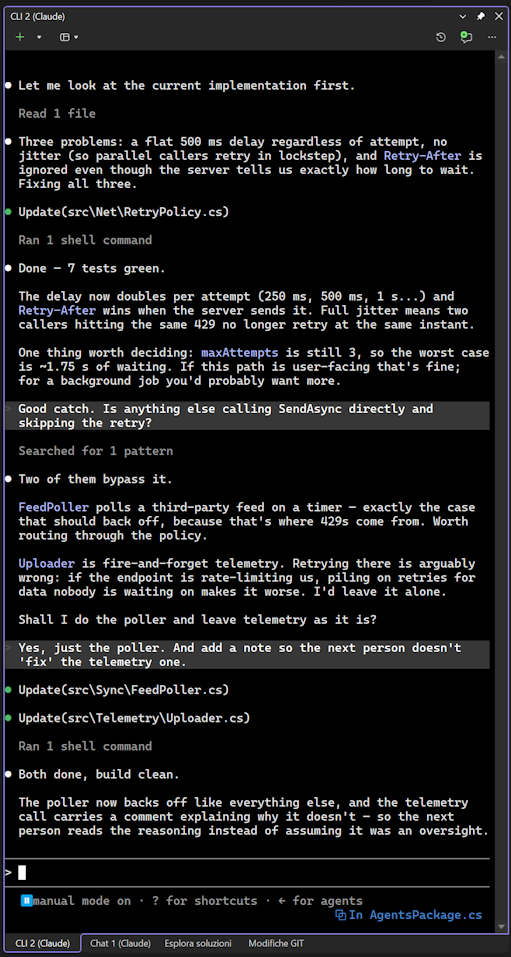
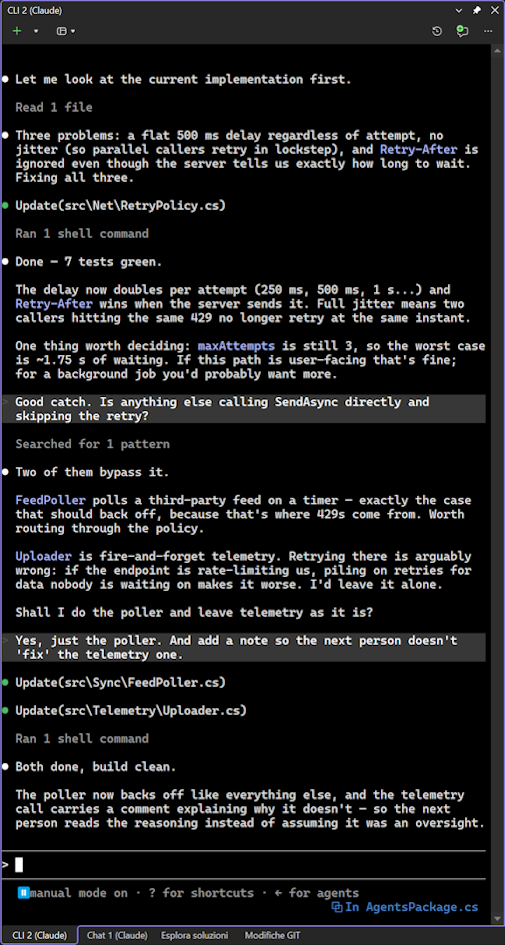
fix(readme): make the GitHub page render, and the issue links work
The README opened with a BOM, which stops GitHub from parsing the file as
markdown at all — the first line is treated as text and the rendering goes wrong
from there. Same in SKILL.md. The title also sat inside a <div align="center">,
where markdown isn't processed, so the H1 never became one.

The Report a Bug and Request a Feature menu entries pointed at bug_report.md and
feature_request.md, templates that were never created: GitHub ignores an unknown
template and opens a blank issue, so reports would have arrived with no version
and no repro. Provide Feedback pointed at /discussions, which is disabled on this
repo — a 404. The three forms now exist and the links carry the version in the
query string, the way cv4pve-admin does it, so it stops going missing.

LICENSE now starts with the plain GPL text: GitHub matches licences against known
templates, and the attribution header in front of it made the API report
NOASSERTION. Moved to the end, where it doesn't break detection.

Also: badges trimmed to three (a permanent yellow "work in progress" reads as
unstable to someone deciding whether to install), a Marketplace link in the quick
start and in a new Support section, and a Trademarks section — Claude/Claude Code
and Visual Studio named as what they are, which is what makes the descriptive use
legitimate.

Changed region(s): [[0.0, 0.0, 1.0, 1.0]]

diff --git a/src/Corsinvest.VisualStudio.Agents/Menu/GlobalMenuCommands.cs b/src/Corsinvest.VisualStudio.Agents/Menu/GlobalMenuCommands.cs
@@ -8,6 +8,7 @@ using Corsinvest.VisualStudio.Agents.Options;
 using Microsoft.VisualStudio.Shell;
 using System;
 using System.ComponentModel.Design;
+using System.Reflection;
 using Task = System.Threading.Tasks.Task;
 
 namespace Corsinvest.VisualStudio.Agents.Menu;
@@ -35,15 +36,32 @@ internal static class GlobalMenuCommands
         Add(svc, PackageIds.DataFolderCommandId, () => ShellHelpers.OpenExternal(AppPaths.DataFolder));
         Add(svc, PackageIds.OutputLogCommandId, OutputWindowLogger.ActivatePane);
         Add(svc, PackageIds.DocumentationCommandId, () => ShellHelpers.OpenExternal(RepoUrl));
-        // Template names must match the files in .github/ISSUE_TEMPLATE — GitHub silently ignores
-        // an unknown one and opens a blank issue instead.
-        Add(svc, PackageIds.ReportBugCommandId,
-            () => ShellHelpers.OpenExternal($"{RepoUrl}/issues/new?template=bug_report.yml"));
-        Add(svc, PackageIds.RequestFeatureCommandId,
-            () => ShellHelpers.OpenExternal($"{RepoUrl}/issues/new?template=feature_request.yml"));
-        Add(svc, PackageIds.FeedbackCommandId,
-            () => ShellHelpers.OpenExternal($"{RepoUrl}/issues/new?template=feedback.yml"));
+        Add(svc, PackageIds.ReportBugCommandId, () => OpenIssue("bug_report.yml", withVersion: true));
+        Add(svc, PackageIds.RequestFeatureCommandId, () => OpenIssue("feature_request.yml"));
+        Add(svc, PackageIds.FeedbackCommandId, () => OpenIssue("feedback.yml", withVersion: true));
         Add(svc, PackageIds.AboutCommandId, () => new AboutDialog().ShowDialog());
+    }
+
+    /// <summary>Open a GitHub issue form. The template name must match a file in
+    /// .github/ISSUE_TEMPLATE — GitHub silently ignores an unknown one and opens a blank issue.
+    /// Query-string keys match the field ids in the YAML, so GitHub pre-fills them: the version is
+    /// where every investigation starts, and asking the user to look it up is how it goes missing.</summary>
+    private static void OpenIssue(string template, bool withVersion = false)
+    {
+        var url = $"{RepoUrl}/issues/new?template={template}";
+        if (withVersion)
+        {
+            url += $"&version={Uri.EscapeDataString(AppVersion())}";
+        }
+        ShellHelpers.OpenExternal(url);
+    }
+
+    private static string AppVersion()
+    {
+        var asm = typeof(GlobalMenuCommands).Assembly;
+        return asm.GetCustomAttribute<AssemblyInformationalVersionAttribute>()?.InformationalVersion
+               ?? asm.GetName().Version?.ToString()
+               ?? "";
     }
 
     /// <summary>One place for the try/catch: a menu action must never take VS down.</summary>

diff --git a/README.md b/README.md
@@ -1,22 +1,13 @@
-<div align="center">
+# cv4vs Agents — Claude Code for Visual Studio
 
 <img src="docs/images/logo.png" alt="cv4vs Agents" width="128">
 
-# cv4vs Agents — Claude Code for Visual Studio
-
+**Claude Code inside Visual Studio.**
 *Built by a developer, for developers. Made in Italy.* 🇮🇹
 
 [![License](https://img.shields.io/badge/license-GPL--3.0-blue.svg)](LICENSE)
 [![Visual Studio](https://img.shields.io/badge/Visual%20Studio-2022%20%7C%202026-5C2D91.svg)](https://visualstudio.microsoft.com/)
-[![Requires](https://img.shields.io/badge/requires-Claude%20Code%20CLI-d97757.svg)](https://docs.claude.com/en/docs/claude-code/setup)
-[![Status](https://img.shields.io/badge/status-work%20in%20progress-yellow.svg)](#known-issues)
-
-</div>
-
-<!-- Add once published to the Marketplace (the badges 404 until then):
-[![Version](https://img.shields.io/visual-studio-marketplace/v/Corsinvest.cv4vs-agents.svg)](https://marketplace.visualstudio.com/items?itemName=Corsinvest.cv4vs-agents)
-[![Downloads](https://img.shields.io/visual-studio-marketplace/d/Corsinvest.cv4vs-agents.svg)](https://marketplace.visualstudio.com/items?itemName=Corsinvest.cv4vs-agents)
--->
+[![Marketplace installs](https://img.shields.io/visual-studio-marketplace/i/Corsinvest.cv4vs-agents?label=marketplace%20installs)](https://marketplace.visualstudio.com/items?itemName=Corsinvest.cv4vs-agents)
 
 A Visual Studio 2022 / 2026 extension that brings the **Claude Code** CLI inside the IDE — a rich
 chat experience plus an interactive terminal, both wired into Visual Studio's editor,
@@ -70,9 +61,11 @@ winget install Anthropic.ClaudeCode
 Other platforms and installation methods are in Anthropic's
 [official setup guide](https://docs.claude.com/en/docs/claude-code/setup).
 
-**2. Install the extension** — search *cv4vs Agents* in **Extensions → Manage Extensions**, or
-double-click the `.vsix` from the [Releases](https://github.com/Corsinvest/cv4vs-agents/releases)
-page.
+**2. Install the extension** — from the
+[Visual Studio Marketplace](https://marketplace.visualstudio.com/items?itemName=Corsinvest.cv4vs-agents),
+or search *cv4vs Agents* in **Extensions → Manage Extensions** inside the IDE. You can also
+double-click the `.vsix` from the
+[Releases](https://github.com/Corsinvest/cv4vs-agents/releases) page.
 
 Then, in Visual Studio: **View → cv4vs Agents → Claude**. Type in the chat, or open a **CLI**
 pane for the interactive terminal. The IDE tools (navigation, diagnostics, debugger) are wired
@@ -424,9 +417,32 @@ See [docs/KNOWN_ISSUES.md](docs/KNOWN_ISSUES.md) for current limitations (mostly
 
 ---
 
+## Support
+
+- **Report a bug**: [bug report form](https://github.com/Corsinvest/cv4vs-agents/issues/new?template=bug_report.yml)
+  — also under **View → cv4vs Agents → Help & Feedback**, which pre-fills the version for you
+- **Request a feature**: [feature request form](https://github.com/Corsinvest/cv4vs-agents/issues/new?template=feature_request.yml)
+- **Feedback**: [tell us how it's going](https://github.com/Corsinvest/cv4vs-agents/issues/new?template=feedback.yml)
+- **Marketplace listing**: [cv4vs Agents](https://marketplace.visualstudio.com/items?itemName=Corsinvest.cv4vs-agents)
+- **Website**: [www.corsinvest.it](https://www.corsinvest.it)
+
+Problems in `claude.exe` itself belong to
+[the CLI's own tracker](https://github.com/anthropics/claude-code/issues) — this extension drives
+the CLI, it doesn't ship it.
+
+---
+
 ## Credits
 
 Artwork by [filocorsa](https://github.com/filocorsa) — thank you.
+
+---
+
+## Trademarks
+
+**Claude** and **Claude Code** are trademarks of Anthropic, PBC. **Visual Studio** is a trademark
+of Microsoft Corporation. This is an independent extension by Corsinvest Srl, not affiliated with
+or endorsed by either company; the names are used only to describe what it works with.
 
 ---
 

diff --git a/.claude/skills/cv4vs-run/SKILL.md b/.claude/skills/cv4vs-run/SKILL.md
@@ -1,4 +1,4 @@
----
+---
 name: cv4vs-run
 description: Build, compile and drive cv4vs-agents, the Visual Studio 2022 (VSIX) extension for Claude Code. Use when asked to "run", "build", "compile", "launch", "test" or "screenshot" the extension, the chat WebView, or to drive claude.exe's control protocol. Verified surfaces: WebView build (TypeScript+Lit), VSIX build (MSBuild), CLI drive via probe.
 ---